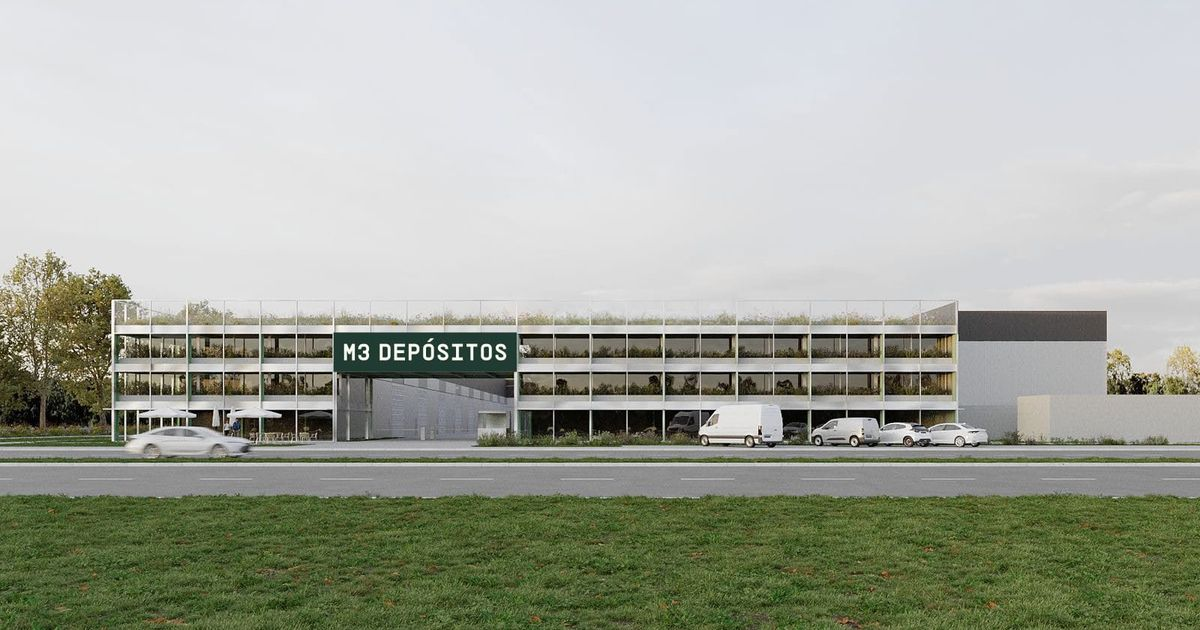
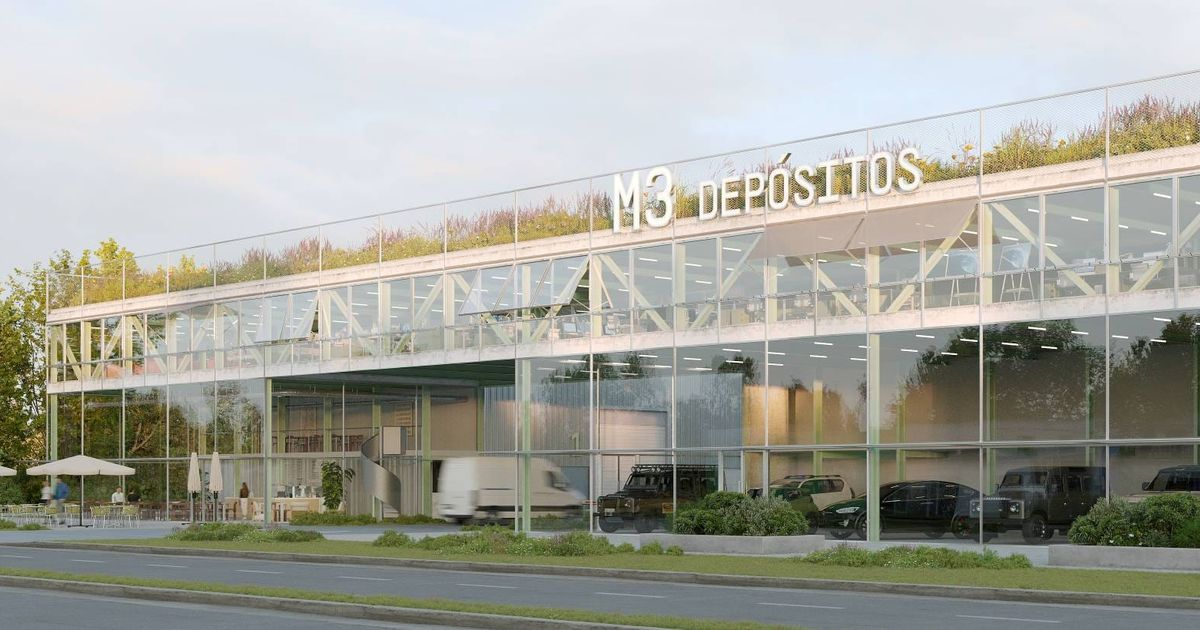
Renders nuevos e información del proyecto: superficies, locales, oficinas e infraestructura

diff --git a/app/page.tsx b/app/page.tsx
@@ -1,14 +1,14 @@
 /*
   M3 Depósitos, landing.
-  Secciones: hero (fachada) · #complejo historia de fotos (contenedor, portón, señalética) ·
-  #unidades tabla de superficies · #servicios banda Verde Bosque con el cartel D 01 ·
+  Secciones: hero (fachada) · #complejo historia de fotos (oficinas, acceso, calle interna) ·
+  #unidades tabla de superficies · #servicios infraestructura sobre Verde Bosque con el cartel D 01 ·
   #contacto ubicación + formulario · footer (cierre + links).
 */
 import { ContactForm } from "@/components/ContactForm";
 import { Isologotipo } from "@/components/Logo";
 import { Cartel, UnitPlan } from "@/components/UnitPlan";
 import { Croquis } from "@/components/Croquis";
-import { marca, precio, rangoHero, servicios, unidades, type Dato } from "@/content/proyecto";
+import { marca, precio, resumen, servicios, unidades, type Dato } from "@/content/proyecto";
 import { whatsappUrl } from "@/lib/whatsapp";
 
 const ACCION = "Pedir disponibilidad";
@@ -43,7 +43,7 @@ export default function Home() {
           <nav className="nav__links" aria-label="Principal">
             <div className="nav__item"><a className="nav__link" href="#complejo">Complejo</a></div>
             <div className="nav__item"><a className="nav__link" href="#unidades">Unidades</a></div>
-            <div className="nav__item"><a className="nav__link" href="#servicios">Servicios</a></div>
+            <div className="nav__item"><a className="nav__link" href="#servicios">Infraestructura</a></div>
             <div className="nav__item"><a className="nav__link" href="#contacto">Ubicación</a></div>
           </nav>
           <div className="nav__actions">
@@ -65,8 +65,8 @@ export default function Home() {
                 <div>
                   <h1 id="hero-h">Naves y depósitos en Fisherton, Rosario</h1>
                   <p className="hero__lead">
-                    Naves, depósitos y oficinas de <D d={rangoHero} /> con acceso propio en {calle}. Cada
-                    empresa usa su unidad; el complejo se ocupa del acceso, la vigilancia y la playa de camiones.
+                    {resumen.navesM2} de naves en {resumen.navesCantidad} de {resumen.navesRango}, más locales
+                    comerciales y oficinas, en {calle}. Almacenamiento, comercio y trabajo en un mismo desarrollo.
                   </p>
                 </div>
                 <div className="btn-row">
@@ -75,13 +75,12 @@ export default function Home() {
                 </div>
               </div>
               <div className="hero__stage">
-                {/* Render de fachada del manual de marca: reemplazar por el render final del proyecto. */}
                 <img
                   src="/img/fachada.jpg"
-                  alt="Fachada de M3 Depósitos sobre la avenida: tres pisos de oficinas con plantas, el cartel verde con el nombre sobre el ingreso de camiones y utilitarios estacionados"
-                  width={1600}
-                  height={1103}
-                  style={{ ["--ly-pos" as string]: "50% 62%" }}
+                  alt="Fachada de M3 Depósitos sobre la avenida: planta baja vidriada con locales y vehículos, oficinas arriba, terraza verde y el nombre en letras blancas sobre el techo"
+                  width={2000}
+                  height={820}
+                  style={{ ["--ly-pos" as string]: "50% 55%" }}
                   fetchPriority="high"
                   data-source="client"
                   data-subject="la fachada del complejo"
@@ -94,30 +93,30 @@ export default function Home() {
         <section className="section" id="complejo" data-moment="photo-chapters" aria-labelledby="complejo-h">
           <div className="wrap mo-ph">
             <div className="mo-ph__head">
-              <h2 id="complejo-h">El complejo, del ingreso a tu portón</h2>
-              <p>Un solo acceso controlado, calles internas para camiones y cada unidad con su número y su portón.</p>
+              <h2 id="complejo-h">El desarrollo, de la avenida a la nave</h2>
+              <p>Al frente, locales y oficinas con terraza verde; detrás, la calle interna que lleva a cada nave.</p>
             </div>
             <ol className="mo-ph__list">
               <li className="mo-ph__ch">
                 <figure className="mo-ph__pic">
-                  <img src="/img/contenedor.jpg" alt="Autoelevador verde levantando un contenedor con la marca M3 Depósitos dentro de una nave de hormigón" width={1800} height={1260} loading="lazy" data-source="client" data-subject="carga dentro de una nave" />
+                  <img style={{ objectPosition: "50% 75%" }} src="/img/ingreso-oficinas.jpg" alt="Frente vidriado de M3 Depósitos en perspectiva, con el nombre sobre la terraza verde, plantas y vereda de adoquines" width={1290} height={860} loading="lazy" data-source="client" data-subject="las oficinas del frente" />
                 </figure>
-                <h3>Carga y descarga adentro del predio</h3>
-                <p>Los camiones entran, maniobran y descargan en las calles internas, sin cortar la calle de enfrente.</p>
+                <h3>Oficinas con terraza verde</h3>
+                <p>Módulos de hasta 50 m² en la planta alta, con áreas comunes, servicios y una terraza verde accesible.</p>
               </li>
               <li className="mo-ph__ch">
                 <figure className="mo-ph__pic">
-                  <img style={{ objectPosition: "50% 80%" }} src="/img/porton.jpg" alt="Portón de chapa verde oscuro con el código D 01 pintado en lima y dos defensas lima a los costados" width={1800} height={1200} loading="lazy" data-source="client" data-subject="el portón de una unidad" />
+                  <img style={{ objectPosition: "50% 60%" }} src="/img/acceso.jpg" alt="Ingreso de vehículos bajo el edificio de oficinas, con barrera, garita y locales vidriados a cada lado" width={1720} height={1147} loading="lazy" data-source="client" data-subject="el acceso al predio" />
                 </figure>
-                <h3>Cada unidad con su portón</h3>
-                <p>Entrás con el vehículo hasta tu puerta y cerrás con tu llave. Nadie pasa por tu espacio para llegar al suyo.</p>
+                <h3>Locales y acceso sobre el frente</h3>
+                <p>Locales con office, sanitarios y doble altura a los lados del ingreso que lleva a la calle interna.</p>
               </li>
               <li className="mo-ph__ch">
                 <figure className="mo-ph__pic">
-                  <img src="/img/senaletica.jpg" alt="Cartel verde colgado de una estantería industrial con el código D 01 y una flecha en diagonal" width={1800} height={1200} loading="lazy" data-source="client" data-subject="la señalética interna" />
+                  <img src="/img/calle-interna.jpg" alt="Calle interna de hormigón entre dos filas de naves con portones numerados y un camión estacionado" width={1720} height={1147} loading="lazy" data-source="client" data-subject="la calle interna y las naves" />
                 </figure>
-                <h3>Todo numerado y señalizado</h3>
-                <p>Cada nave, depósito y oficina tiene su código. Un flete o un proveedor llega a tu portón sin preguntar.</p>
+                <h3>Naves sobre la calle interna</h3>
+                <p>Quince naves con portón numerado, piso de hormigón llaneado para alto tránsito y cerramientos con panel Cover.</p>
               </li>
             </ol>
           </div>
@@ -127,15 +126,17 @@ export default function Home() {
           <div className="wrap">
             <div className="section-head">
               <h2 id="unidades-h">Unidades y superficies</h2>
-              <p>Tres tipos de unidad en el mismo predio, en venta y en alquiler. <D d={precio} />: te mandamos el plano y el valor de las que estén libres.</p>
+              <p>{resumen.navesM2} de naves, {resumen.localesM2} de locales comerciales y {resumen.oficinasM2} de oficinas en un mismo desarrollo. <D d={precio} />: te mandamos el plano y el valor de las unidades libres.</p>
             </div>
             <ul className="rows rows--spec unidades">
               {unidades.map((u) => (
                 <li key={u.id} id={u.id}>
-                  <div className="unidades__plan" data-assumed="">
+                  <div className="unidades__plan" {...(u.plano.ph ? { "data-assumed": "" } : {})}>
                     <UnitPlan
                       codigo={`${u.codigo} 01`}
-                      {...u.plano}
+                      frente={u.plano.frente}
+                      fondo={u.plano.fondo}
+                      porton={u.plano.porton}
                       label={`Planta esquemática de ${u.nombre.toLowerCase()}: ${u.plano.frente} m de frente por ${u.plano.fondo} m de fondo`}
                     />
                   </div>
@@ -160,9 +161,9 @@ export default function Home() {
           <div className="wrap">
             <div className="servicios">
               <div className="section-head servicios__head">
-                <h2 id="servicios-h">Servicios del complejo</h2>
-                <p>Lo que cada empresa tendría que resolver sola en un galpón suelto, acá ya está resuelto y se paga en las expensas.</p>
-                <Cartel codigo="D" numero="01" palabra="Servicios" />
+                <h2 id="servicios-h">Infraestructura del complejo</h2>
+                <p>Servicios y terminaciones que tienen las naves de todo el desarrollo.</p>
+                <Cartel codigo="N" numero="01" palabra="Naves" />
               </div>
               <ul className="servicios__list">
                 {servicios.map((s) => (
@@ -208,7 +209,7 @@ export default function Home() {
           <div className="closing__cta close--type">
             <div className="section-head">
               <h2 id="close-h">Unidades libres en {calle}</h2>
-              <p>Naves, depósitos y oficinas en {barrio}. Te respondemos por email con planos y precios.</p>
+              <p>Naves, locales y oficinas en {barrio}. Te respondemos por email con planos y precios.</p>
             </div>
             <a className="btn btn--primary btn--xl btn--wide" href="#contacto">{ACCION}<Flecha /></a>
           </div>
@@ -216,14 +217,14 @@ export default function Home() {
             <div className="grid">
               <div className="span-4 stack-4">
                 <a className="nav__logo" href="#top" aria-label="M3 Depósitos, volver arriba"><Isologotipo /></a>
-                <p className="footer__lede">Naves, depósitos y oficinas en {barrio}, {ciudad}.</p>
+                <p className="footer__lede">Naves, locales y oficinas en {barrio}, {ciudad}.</p>
               </div>
               <div className="span-2 start-9 footer__col">
                 <h3>Complejo</h3>
                 <ul>
                   <li><a href="#complejo">El predio</a></li>
                   <li><a href="#unidades">Unidades</a></li>
-                  <li><a href="#servicios">Servicios</a></li>
+                  <li><a href="#servicios">Infraestructura</a></li>
                 </ul>
               </div>
               <div className="span-2 start-11 footer__col">

diff --git a/content/proyecto.ts b/content/proyecto.ts
@@ -2,8 +2,8 @@
   Datos del proyecto M3 Depósitos, en un solo lugar.
 
   PH = placeholder. Todo valor marcado `ph: true` es provisorio: se muestra en la página con
-  `data-assumed` y hay que reemplazarlo por el dato real antes
-  de publicar. Lo que no lleva PH sale del manual de marca (nombre, ubicación, colores).
+  `data-assumed` y hay que reemplazarlo por el dato real antes de publicar.
+  Superficies, cantidades y características: ficha del proyecto (26/11/2026).
 */
 
 export type Dato = { valor: string; ph?: boolean };
@@ -11,13 +11,22 @@ export type Dato = { valor: string; ph?: boolean };
 export const marca = {
   nombre: "M3 Depósitos",
   ubicacion: {
-    calle: "Wilde y Mendoza", // del manual de marca (mockup del contenedor)
+    calle: "Wilde y Mendoza",
     barrio: "Fisherton",
     ciudad: "Rosario",
   },
 };
 
-/* Superficies y tipos de unidad. PH: todos los números. */
+/* Números del proyecto. */
+export const resumen = {
+  navesM2: "11.600 m²",
+  navesCantidad: "15 unidades",
+  navesRango: "200 a 1.300 m²",
+  localesM2: "530 m²",
+  oficinasM2: "600 m²",
+};
+
+/* Tipos de unidad. */
 export const unidades: {
   id: string;
   codigo: string;
@@ -26,55 +35,47 @@ export const unidades: {
   superficie: Dato;
   detalle: Dato;
   /* Planta esquemática, en metros. PH: tomar del plano tipo de cada unidad. */
-  plano: { frente: number; fondo: number; porton: number };
+  plano: { frente: number; fondo: number; porton: number; ph: boolean };
 }[] = [
   {
     id: "naves",
     codigo: "N",
     nombre: "Naves",
-    descripcion: "Para logística, producción liviana o stock de mayorista. Portón propio sobre la calle interna.",
-    superficie: { valor: "300 a 600 m²", ph: true },
-    detalle: { valor: "Altura libre 8 m, portón de 4 × 5 m", ph: true },
-    plano: { frente: 15, fondo: 30, porton: 4 },
+    descripcion: `${resumen.navesM2} de naves en ${resumen.navesCantidad}, para operaciones de distinta escala. Se puede incorporar entrepiso.`,
+    superficie: { valor: resumen.navesRango },
+    detalle: { valor: "Piso de hormigón llaneado para alto tránsito y cerramientos con panel Cover" },
+    plano: { frente: 20, fondo: 40, porton: 5, ph: true },
   },
   {
-    id: "depositos",
-    codigo: "D",
-    nombre: "Depósitos",
-    descripcion: "Para guardar mercadería, herramientas o archivo, con acceso en vehículo hasta la puerta.",
-    superficie: { valor: "60 a 150 m²", ph: true },
-    detalle: { valor: "Altura libre 5 m, portón de 3 × 4 m", ph: true },
-    plano: { frente: 8, fondo: 12, porton: 3 },
+    id: "locales",
+    codigo: "L",
+    nombre: "Locales comerciales",
+    descripcion: "Sobre el frente del desarrollo, para comercio y atención al público.",
+    superficie: { valor: `${resumen.localesM2} en total` },
+    detalle: { valor: "Office, sanitarios y espacios en doble altura" },
+    plano: { frente: 10, fondo: 15, porton: 3, ph: true },
   },
   {
     id: "oficinas",
     codigo: "O",
     nombre: "Oficinas",
-    descripcion: "En los pisos del frente, con vista a la calle y entrada separada de la playa de camiones.",
-    superficie: { valor: "40 a 90 m²", ph: true },
-    detalle: { valor: "Planta libre, baño y office", ph: true },
-    plano: { frente: 10, fondo: 7, porton: 1 },
+    descripcion: "En la planta alta del frente, con áreas comunes y salida a la terraza verde.",
+    superficie: { valor: "Módulos de hasta 50 m²" },
+    detalle: { valor: `${resumen.oficinasM2} en total, con áreas comunes, servicios y terraza verde accesible` },
+    plano: { frente: 7, fondo: 7, porton: 1, ph: true },
   },
 ];
 
-/* Rango del hero: sale de la tabla de unidades (la superficie más chica y la más grande),
-   así nunca la contradice. */
-const extremos = unidades.flatMap((u) => (u.superficie.valor.match(/\d+/g) ?? []).map(Number));
-export const rangoHero: Dato = {
-  valor: `${Math.min(...extremos)} a ${Math.max(...extremos)} m²`,
-  ph: unidades.some((u) => u.superficie.ph),
-};
-
 export const precio: Dato = { valor: "Precio a consultar" };
 
-/* Servicios del complejo. PH: confirmar cada uno con el desarrollador. */
+/* Infraestructura del complejo (ficha del proyecto). */
 export const servicios: { titulo: string; texto: string; ph?: boolean }[] = [
-  { titulo: "Acceso controlado", texto: "Un solo ingreso con guardia y registro de cada vehículo que entra y sale.", ph: true },
-  { titulo: "Monitoreo las 24 horas", texto: "Cámaras en calles internas, portones y perímetro, con grabación.", ph: true },
-  { titulo: "Playa de maniobras", texto: "Calles internas para que un semirremolque entre, descargue y salga sin usar la calle.", ph: true },
-  { titulo: "Energía trifásica", texto: "Tablero propio en cada nave, para máquinas y autoelevadores eléctricos.", ph: true },
-  { titulo: "Estacionamiento", texto: "Cocheras para autos y utilitarios separadas de la zona de carga.", ph: true },
-  { titulo: "Mantenimiento común", texto: "Limpieza, iluminación y espacios verdes a cargo de la administración del complejo.", ph: true },
+  { titulo: "Red de desagües", texto: "Desagües en todo el predio y las calles internas." },
+  { titulo: "Alumbrado", texto: "Iluminación en calles internas y accesos." },
+  { titulo: "Agua potable", texto: "Conexión de agua potable en cada unidad." },
+  { titulo: "Panel Cover", texto: "Cerramientos de las naves con panel Cover." },
+  { titulo: "Hormigón llaneado", texto: "Pisos de hormigón llaneado preparados para alto tránsito." },
+  { titulo: "Entrepisos", texto: "Posibilidad de incorporar entrepisos en las naves." },
 ];
 
 /*
@@ -85,6 +86,6 @@ export const contacto = {
   whatsapp: process.env.NEXT_PUBLIC_WHATSAPP ?? "",
   mensajes: {
     invertir: "Hola, quiero invertir en una unidad de M3 Depósitos. ¿Me pasan superficies, precios y disponibilidad?",
-    operar: "Hola, busco una nave o depósito en M3 Depósitos para mi empresa. ¿Me pasan superficies y disponibilidad?",
+    operar: "Hola, busco una nave, local u oficina en M3 Depósitos para mi empresa. ¿Me pasan superficies y disponibilidad?",
   },
 };

diff --git a/app/layout.tsx b/app/layout.tsx
@@ -16,9 +16,9 @@ const plexMono = IBM_Plex_Mono({
   weight: ["400", "500"],
 });
 
-const titulo = "M3 Depósitos: naves, depósitos y oficinas en Fisherton, Rosario";
+const titulo = "M3 Depósitos: naves, locales y oficinas en Fisherton, Rosario";
 const descripcion =
-  "Complejo de naves y depósitos con portón propio, acceso controlado y playa de maniobras en Wilde y Mendoza, Fisherton.";
+  "11.600 m² de naves en 15 unidades de 200 a 1.300 m², locales comerciales y oficinas en Wilde y Mendoza, Fisherton, Rosario.";
 
 export const metadata: Metadata = {
   title: titulo,
@@ -27,7 +27,7 @@ export const metadata: Metadata = {
   openGraph: {
     type: "website",
     title: titulo,
-    description: "Naves, depósitos y oficinas en Wilde y Mendoza, Fisherton, Rosario.",
+    description: "Naves, locales comerciales y oficinas en Wilde y Mendoza, Fisherton, Rosario.",
     images: ["/share.jpg"],
   },
   twitter: { card: "summary_large_image" },
